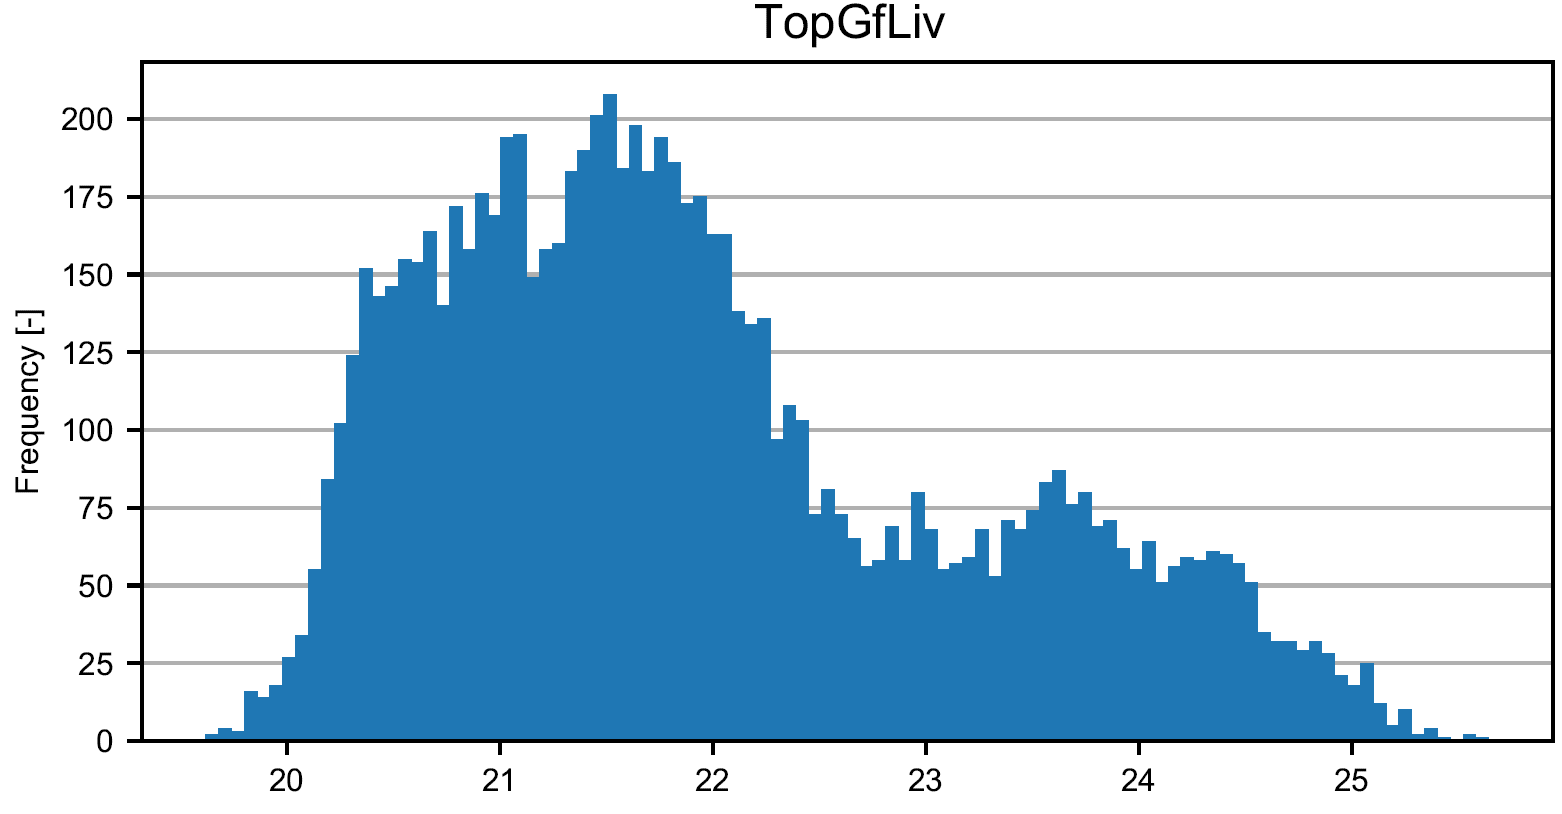
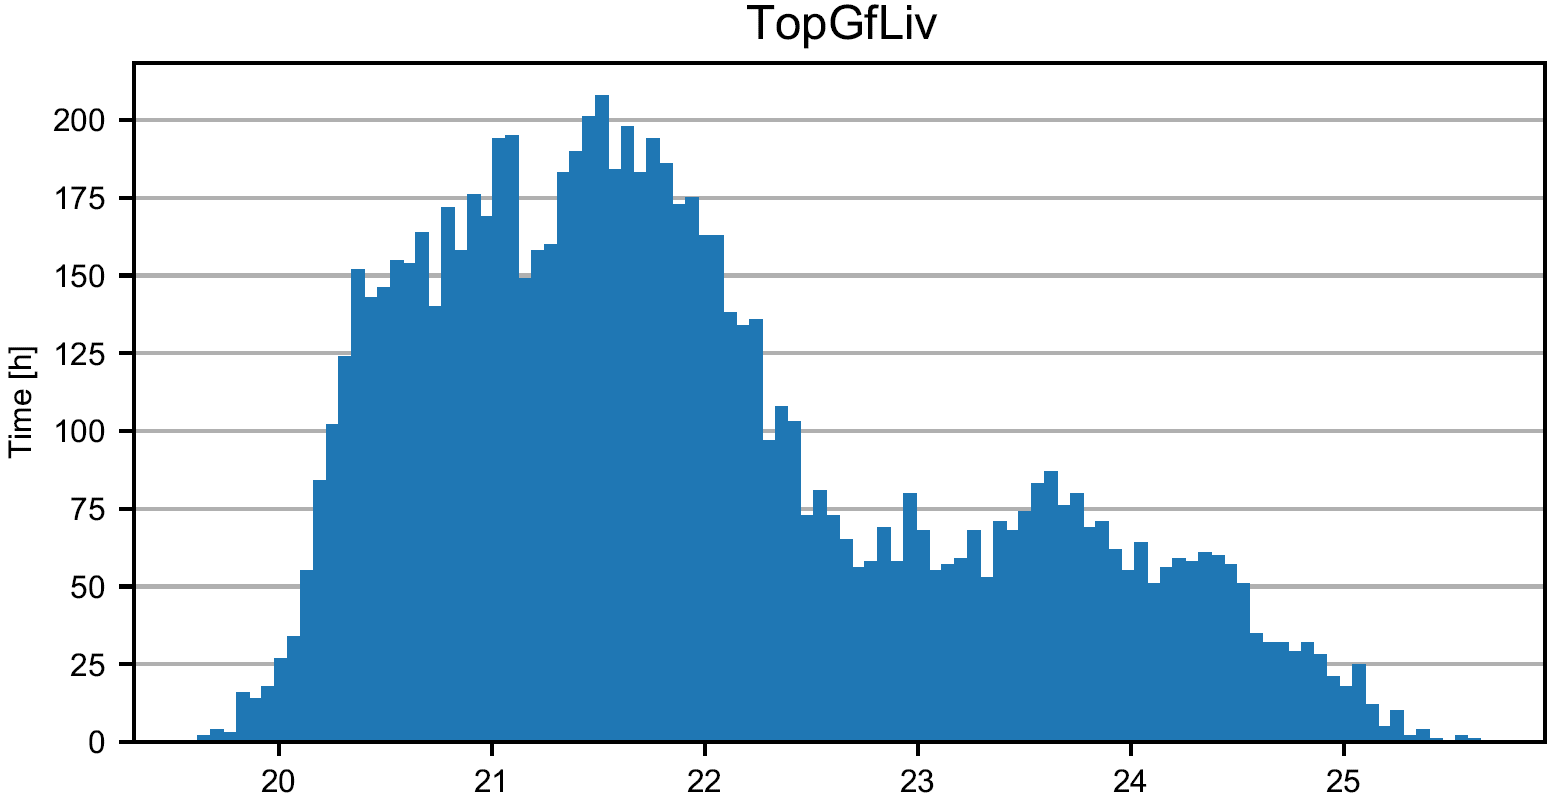
Corrected ylabel of plotT

Changed region(s): [[0.0, 0.0, 1.0, 0.9937]]

diff --git a/pytrnsys/plot/plotMatplotlib.py b/pytrnsys/plot/plotMatplotlib.py
@@ -2217,8 +2217,7 @@ class PlotMatplotlib:
 
         ax.set_title(name)
         ax.hist(temperature, bins=100)
-        # plt.xlabel('Temperature [deg C]')
-        plt.ylabel("Frequency [-]")
+        plt.ylabel("Time [h]")
 
         namePdf = "%s.%s" % (nameFile, extension)
         nameWithPath = os.path.join(path, namePdf)
